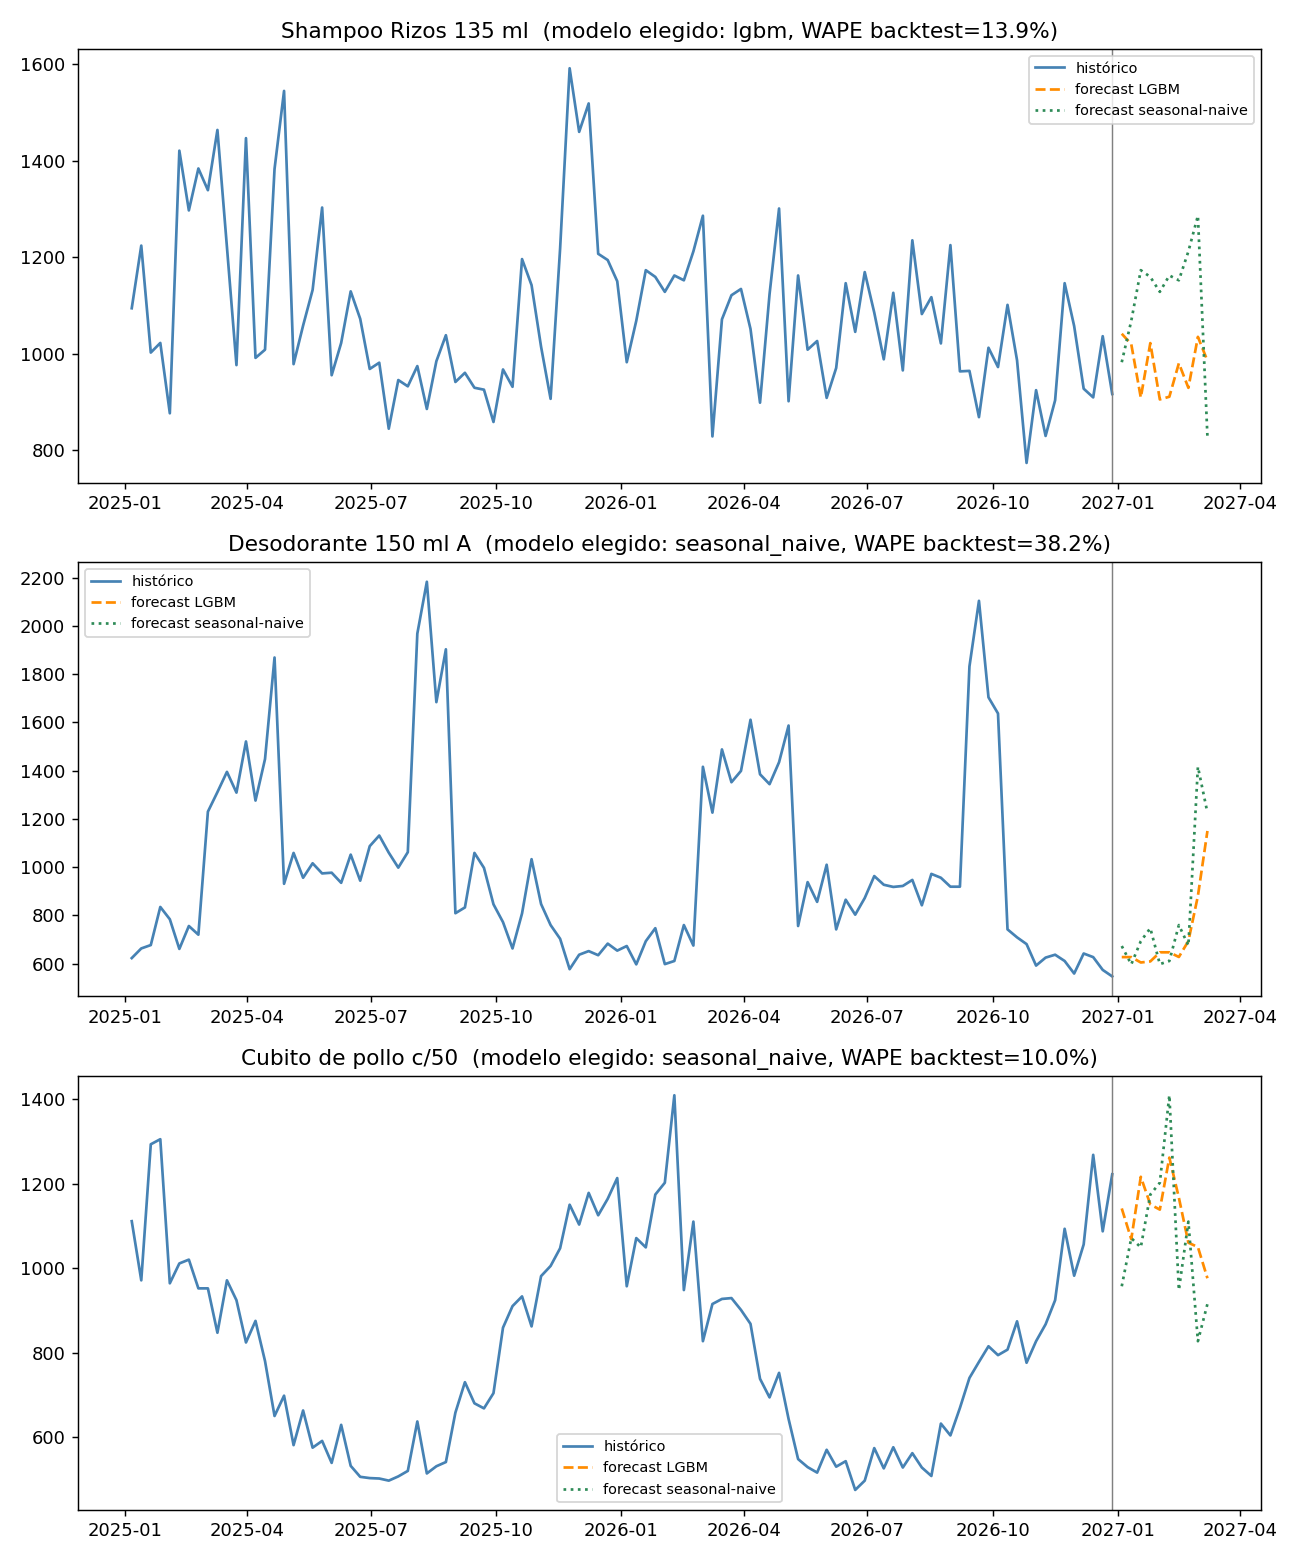
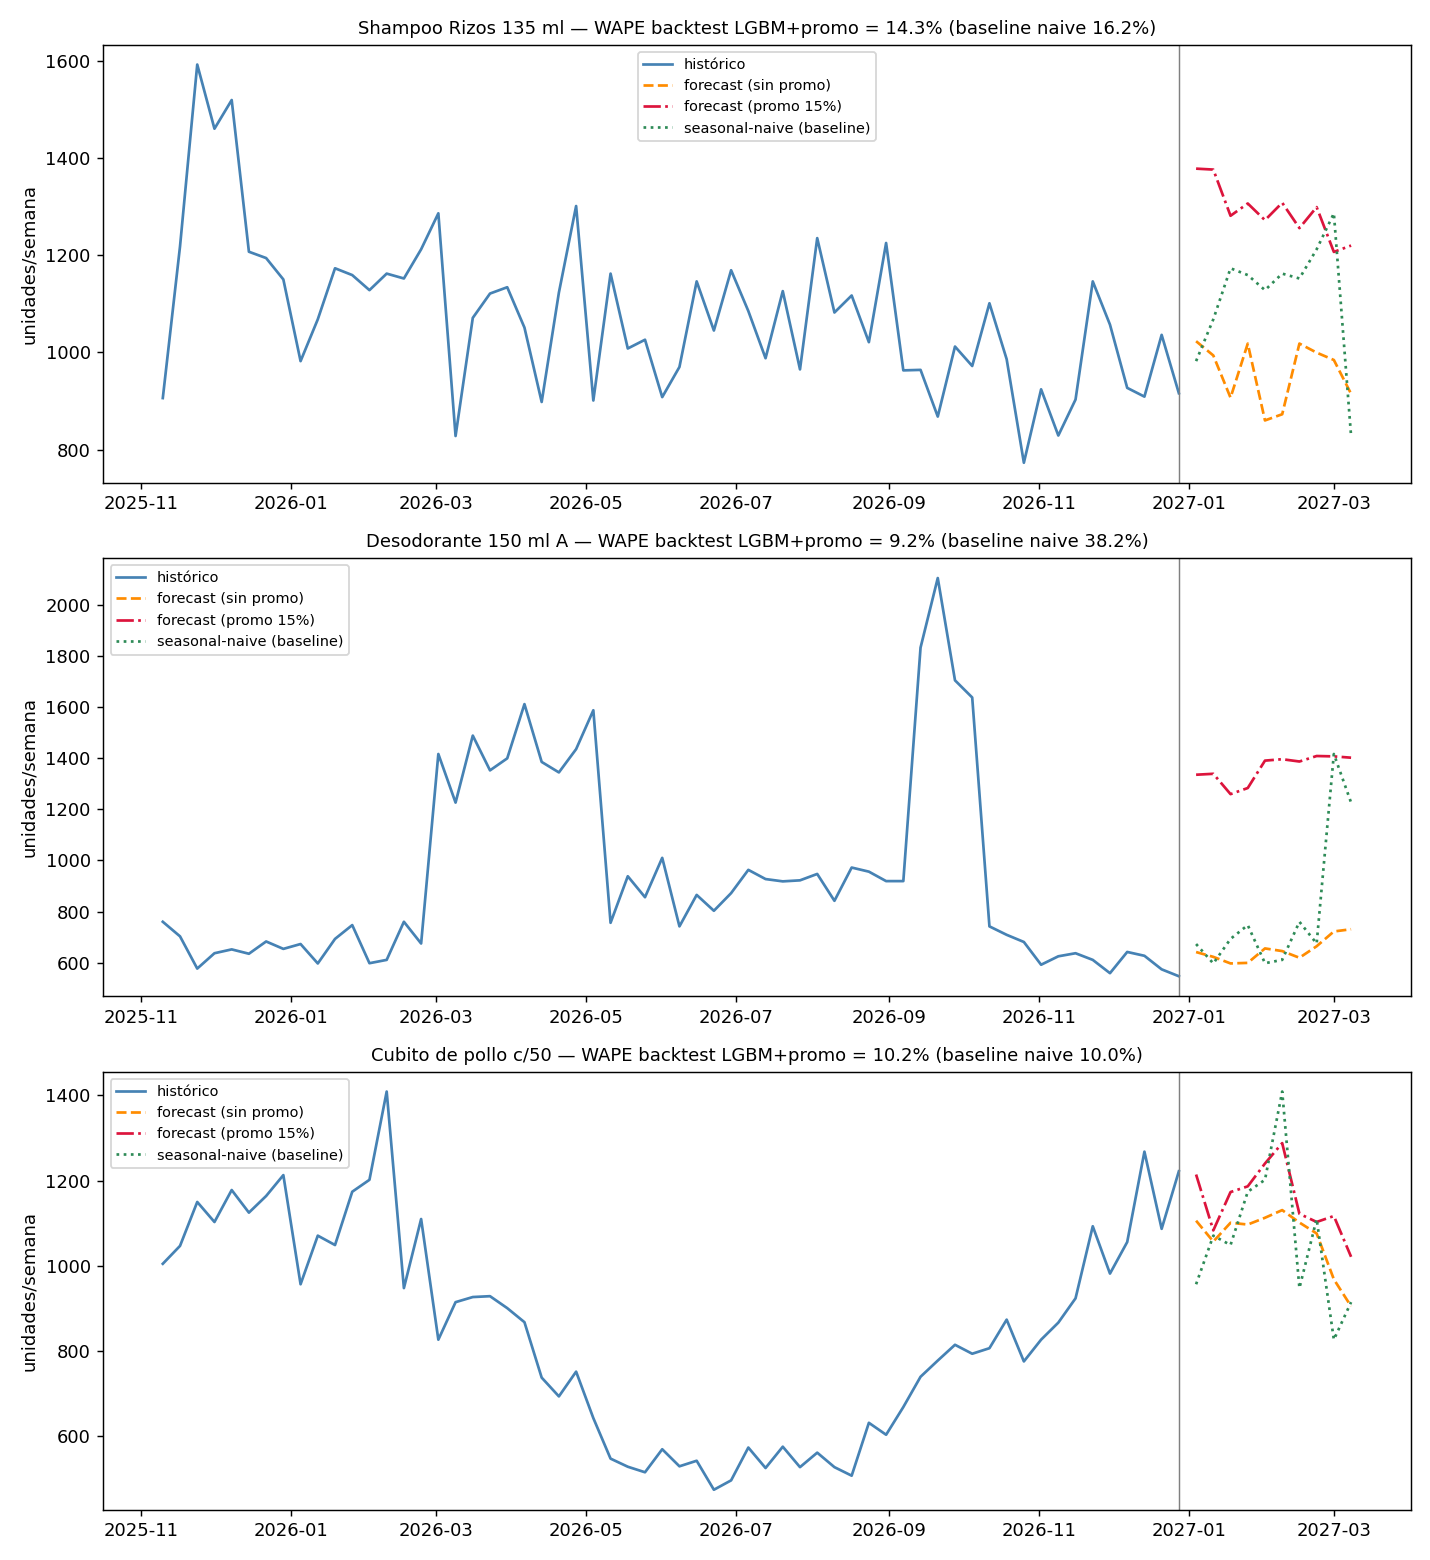
fix(reto-a): incorpora el calendario promocional como regresor conocido a futuro
El WAPE de Desodorante era 38-59%, inusable para reabasto. La causa: sus combos
duplican la demanda y el modelo no tenia forma de anticiparlos.

El calendario promocional no es fuga de informacion (el equipo comercial lo
decide con anticipacion). Al incorporarlo el WAPE cae a 9.2%, mejor en los 5
origenes del backtest sin excepcion.

Permite ademas unificar en un solo modelo para los 3 SKUs (11.2% promedio) en
vez de elegir el mejor por SKU (20.7%), y simular escenarios con y sin promo.

diff --git a/src/forecasting.py b/src/forecasting.py
@@ -1,10 +1,28 @@
-"""Reto A: Demand forecasting semanal con backtesting walk-forward (sin fuga de información)."""
+"""Reto A: Forecasting de demanda semanal con validación walk-forward (sin fuga de información).
+
+Tres modelos comparados:
+  1. seasonal_naive  -- baseline: la demanda de t = la de t-52
+  2. lgbm            -- calendario + lags + medias móviles
+  3. lgbm_promo      -- lo anterior + el calendario promocional como regresor conocido a futuro
+
+El calendario promocional NO es fuga de información: el equipo comercial define sus combos
+por adelantado, así que en producción esas columnas se conocen para el horizonte proyectado.
+"""
 import numpy as np
 import pandas as pd
 import lightgbm as lgb
 
 FORECAST_SKUS = ['Shampoo Rizos 135 ml', 'Desodorante 150 ml A', 'Cubito de pollo c/50']
 HORIZON = 10  # semanas
+
+BASE_FEATURES = ['t', 'woy_sin', 'woy_cos', 'month',
+                 'lag_1', 'lag_2', 'lag_4', 'lag_8', 'lag_52',
+                 'roll_mean_4', 'roll_mean_8']
+PROMO_FEATURES = ['on_promo', 'discount']
+
+
+def features_for(use_promo):
+    return BASE_FEATURES + (PROMO_FEATURES if use_promo else [])
 
 
 def build_features(g):
@@ -20,75 +38,78 @@ def build_features(g):
     g['roll_mean_8'] = g['qty'].shift(1).rolling(8).mean()
     return g
 
-FEATURES = ['t', 'woy_sin', 'woy_cos', 'month', 'lag_1', 'lag_2', 'lag_4', 'lag_8', 'lag_52',
-            'roll_mean_4', 'roll_mean_8']
 
-
-def fit_lgbm(train_feat):
-    train = train_feat.dropna(subset=['lag_1'])  # necesita al menos lag_1 valido
+def fit_lgbm(train, use_promo):
+    feat = build_features(train).dropna(subset=['lag_1'])
     model = lgb.LGBMRegressor(
         n_estimators=200, num_leaves=7, min_child_samples=5,
         learning_rate=0.05, subsample=0.8, colsample_bytree=0.8,
         random_state=42, verbosity=-1)
-    model.fit(train[FEATURES], train['qty'])
+    model.fit(feat[features_for(use_promo)], feat['qty'])
     return model
 
 
-def recursive_forecast_lgbm(model, history_qty_df, n_steps):
-    """history_qty_df: DataFrame con columnas week, qty (historia real, ordenada).
-    Genera n_steps semanas futuras de forma recursiva usando las propias predicciones como lags."""
-    hist = history_qty_df[['week', 'qty']].copy()
-    freq = pd.tseries.frequencies.to_offset('W-MON')
+def recursive_forecast(model, history, future_calendar, use_promo):
+    """Pronóstico recursivo: cada semana futura usa las predicciones ya generadas como lags.
+
+    history         -- DataFrame histórico con week, qty, on_promo, discount
+    future_calendar -- DataFrame con week, on_promo, discount de las semanas a proyectar
+                       (el plan promocional; ceros si se asume trimestre sin promoción)
+    """
+    cols = ['week', 'qty', 'on_promo', 'discount']
+    hist = history[cols].copy()
     preds = []
-    for h in range(n_steps):
-        next_week = hist['week'].iloc[-1] + pd.Timedelta(days=7)
-        tmp = pd.concat([hist, pd.DataFrame({'week': [next_week], 'qty': [np.nan]})], ignore_index=True)
-        feat = build_features(tmp.rename(columns={'qty': 'qty'}))
-        row = feat.iloc[[-1]][FEATURES]
-        yhat = max(0, model.predict(row)[0])
-        preds.append((next_week, yhat))
-        hist = pd.concat([hist, pd.DataFrame({'week': [next_week], 'qty': [yhat]})], ignore_index=True)
+    for _, fut in future_calendar.iterrows():
+        row = pd.DataFrame({'week': [fut['week']], 'qty': [np.nan],
+                            'on_promo': [fut['on_promo']], 'discount': [fut['discount']]})
+        tmp = pd.concat([hist, row], ignore_index=True)
+        x = build_features(tmp).iloc[[-1]][features_for(use_promo)]
+        yhat = max(0.0, float(model.predict(x)[0]))
+        preds.append((fut['week'], yhat))
+        row.loc[0, 'qty'] = yhat
+        hist = pd.concat([hist, row], ignore_index=True)
     return pd.DataFrame(preds, columns=['week', 'yhat'])
 
 
-def seasonal_naive_forecast(history_qty_df, n_steps):
-    hist = history_qty_df[['week', 'qty']].copy().sort_values('week').reset_index(drop=True)
+def seasonal_naive_forecast(history, n_steps):
+    hist = history[['week', 'qty']].sort_values('week').reset_index(drop=True)
     preds = []
     for h in range(1, n_steps + 1):
         next_week = hist['week'].iloc[-1] + pd.Timedelta(days=7) * h
-        ref_week = next_week - pd.Timedelta(weeks=52)
-        match = hist.loc[hist.week == ref_week, 'qty']
-        if len(match):
-            yhat = match.values[0]
-        else:
-            yhat = hist['qty'].tail(4).mean()
-        preds.append((next_week, yhat))
+        match = hist.loc[hist.week == next_week - pd.Timedelta(weeks=52), 'qty']
+        preds.append((next_week, match.values[0] if len(match) else hist['qty'].tail(4).mean()))
     return pd.DataFrame(preds, columns=['week', 'yhat'])
 
 
 def wape(actual, pred):
-    actual = np.asarray(actual, dtype=float)
-    pred = np.asarray(pred, dtype=float)
+    actual, pred = np.asarray(actual, float), np.asarray(pred, float)
     return np.abs(actual - pred).sum() / np.abs(actual).sum()
 
 
-def backtest(weekly_df, origins, horizon=HORIZON):
-    """origins: lista de índices (posición en la serie) donde 'corta' el histórico."""
+def backtest(weekly, origins, horizon=HORIZON):
+    """Walk-forward: en cada origen se entrena SOLO con datos anteriores y se proyecta `horizon`."""
     rows = []
     for origin in origins:
-        train = weekly_df.iloc[:origin].reset_index(drop=True)
-        test = weekly_df.iloc[origin:origin + horizon].reset_index(drop=True)
+        train = weekly.iloc[:origin].reset_index(drop=True)
+        test = weekly.iloc[origin:origin + horizon].reset_index(drop=True)
         if len(test) < horizon:
             continue
-        feat_train = build_features(train)
-        model = fit_lgbm(feat_train)
-        fc_lgbm = recursive_forecast_lgbm(model, train, horizon)
-        fc_naive = seasonal_naive_forecast(train, horizon)
+        cal = test[['week', 'on_promo', 'discount']]
+        cal_zero = cal.assign(on_promo=0, discount=0.0)
 
-        w_lgbm = wape(test['qty'], fc_lgbm['yhat'])
-        w_naive = wape(test['qty'], fc_naive['yhat'])
-        rows.append({'origin_week': train['week'].iloc[-1], 'wape_lgbm': w_lgbm, 'wape_naive': w_naive})
+        rows.append({
+            'origin_week': train['week'].iloc[-1],
+            'wape_naive': wape(test['qty'], seasonal_naive_forecast(train, horizon)['yhat']),
+            'wape_lgbm': wape(test['qty'],
+                              recursive_forecast(fit_lgbm(train, False), train, cal_zero, False)['yhat']),
+            'wape_lgbm_promo': wape(test['qty'],
+                                    recursive_forecast(fit_lgbm(train, True), train, cal, True)['yhat']),
+        })
     return pd.DataFrame(rows)
+
+
+def backtest_origins(n_weeks, horizon=HORIZON, n_origins=5, step=6):
+    return list(range(n_weeks - horizon - step * (n_origins - 1), n_weeks - horizon + 1, step))
 
 
 if __name__ == "__main__":
@@ -96,9 +117,9 @@ if __name__ == "__main__":
     df = clean(load_raw())
     for sku in FORECAST_SKUS:
         wk = weekly_demand(df, sku)
-        n = len(wk)
-        origins = list(range(n - HORIZON - 24, n - HORIZON + 1, 6))
-        bt = backtest(wk, origins)
-        print(f"\n=== {sku} (n_weeks={n}) ===")
-        print(bt)
-        print("promedio WAPE LGBM:", bt.wape_lgbm.mean().round(3), " | seasonal naive:", bt.wape_naive.mean().round(3))
+        bt = backtest(wk, backtest_origins(len(wk)))
+        print(f"\n=== {sku} (n={len(wk)} semanas) ===")
+        print(bt.round(3).to_string(index=False))
+        print("WAPE promedio -> " + "  |  ".join(
+            f"{c.replace('wape_', '')}: {bt[c].mean():.1%}" for c in
+            ['wape_naive', 'wape_lgbm', 'wape_lgbm_promo']))

diff --git a/src/forecasting_final.py b/src/forecasting_final.py
@@ -1,50 +1,71 @@
-"""Genera el forecast final (10 semanas) para cada SKU eligiendo el mejor modelo del backtest."""
-import numpy as np, pandas as pd
+"""Genera el forecast final a 10 semanas bajo dos escenarios promocionales."""
+import numpy as np
+import pandas as pd
 import matplotlib
 matplotlib.use('Agg')
 import matplotlib.pyplot as plt
-from data_prep import load_raw, clean, weekly_demand
-from forecasting import (FORECAST_SKUS, HORIZON, build_features, fit_lgbm,
-                          recursive_forecast_lgbm, seasonal_naive_forecast, backtest, wape)
 
-df = clean(load_raw())
+from data_prep import load_raw, clean, weekly_demand, data_path, report_path
+from forecasting import (FORECAST_SKUS, HORIZON, fit_lgbm, recursive_forecast,
+                         seasonal_naive_forecast, backtest, backtest_origins)
 
-summary_rows = []
-fig, axes = plt.subplots(len(FORECAST_SKUS), 1, figsize=(10, 12), sharex=False)
 
-for i, sku in enumerate(FORECAST_SKUS):
-    wk = weekly_demand(df, sku)
-    n = len(wk)
-    origins = list(range(n - HORIZON - 24, n - HORIZON + 1, 6))
-    bt = backtest(wk, origins)
-    wape_lgbm, wape_naive = bt.wape_lgbm.mean(), bt.wape_naive.mean()
-    chosen = 'lgbm' if wape_lgbm < wape_naive else 'seasonal_naive'
+def future_calendar(last_week, n_steps, on_promo=0, discount=0.0):
+    weeks = [last_week + pd.Timedelta(days=7) * (h + 1) for h in range(n_steps)]
+    return pd.DataFrame({'week': weeks, 'on_promo': on_promo, 'discount': discount})
 
-    feat_full = build_features(wk)
-    model = fit_lgbm(feat_full)
-    fc_lgbm = recursive_forecast_lgbm(model, wk, HORIZON)
-    fc_naive = seasonal_naive_forecast(wk, HORIZON)
-    fc_final = fc_lgbm if chosen == 'lgbm' else fc_naive
 
-    summary_rows.append({
-        'sku': sku, 'wape_backtest_lgbm': round(wape_lgbm, 3), 'wape_backtest_naive': round(wape_naive, 3),
-        'modelo_elegido': chosen, 'demanda_prom_semanal_hist': round(wk.qty.tail(12).mean(), 1),
-        'demanda_prom_semanal_forecast': round(fc_final.yhat.mean(), 1)
-    })
+def run():
+    df = clean(load_raw())
+    rows, forecasts = [], {}
+    fig, axes = plt.subplots(len(FORECAST_SKUS), 1, figsize=(11, 12))
 
-    fc_final.to_csv(f"data/forecast_{sku.replace(' ', '_').replace('/','-')}.csv", index=False)
+    for i, sku in enumerate(FORECAST_SKUS):
+        wk = weekly_demand(df, sku)
+        bt = backtest(wk, backtest_origins(len(wk)))
 
-    ax = axes[i]
-    ax.plot(wk.week, wk.qty, label='histórico', color='steelblue')
-    ax.plot(fc_lgbm.week, fc_lgbm.yhat, '--', label='forecast LGBM', color='darkorange')
-    ax.plot(fc_naive.week, fc_naive.yhat, ':', label='forecast seasonal-naive', color='seagreen')
-    ax.axvline(wk.week.iloc[-1], color='gray', lw=0.8)
-    ax.set_title(f"{sku}  (modelo elegido: {chosen}, WAPE backtest={min(wape_lgbm,wape_naive):.1%})")
-    ax.legend(fontsize=8)
+        # Modelo unificado para los 3 SKUs: LightGBM + calendario promocional.
+        model = fit_lgbm(wk, use_promo=True)
+        cal_base = future_calendar(wk.week.iloc[-1], HORIZON)                       # sin promo
+        cal_promo = future_calendar(wk.week.iloc[-1], HORIZON, 1, 0.15)             # promo 15% todo el horizonte
 
-plt.tight_layout()
-plt.savefig("report/reto_a_forecasts.png", dpi=130)
+        fc_base = recursive_forecast(model, wk, cal_base, True)
+        fc_promo = recursive_forecast(model, wk, cal_promo, True)
+        fc_naive = seasonal_naive_forecast(wk, HORIZON)
 
-summary = pd.DataFrame(summary_rows)
-summary.to_csv("data/reto_a_summary.csv", index=False)
-print(summary.to_string(index=False))
+        forecasts[sku] = fc_base
+        fc_base.to_csv(data_path(f"forecast_{sku.replace(' ', '_').replace('/', '-')}.csv"), index=False)
+
+        rows.append({
+            'sku': sku,
+            'wape_naive': round(bt.wape_naive.mean(), 3),
+            'wape_lgbm': round(bt.wape_lgbm.mean(), 3),
+            'wape_lgbm_promo': round(bt.wape_lgbm_promo.mean(), 3),
+            'demanda_sem_hist_12s': round(wk.qty.tail(12).mean(), 1),
+            'forecast_sem_sin_promo': round(fc_base.yhat.mean(), 1),
+            'forecast_sem_con_promo_15pct': round(fc_promo.yhat.mean(), 1),
+        })
+
+        ax = axes[i]
+        ax.plot(wk.week.tail(60), wk.qty.tail(60), label='histórico', color='steelblue')
+        ax.plot(fc_base.week, fc_base.yhat, '--', color='darkorange', label='forecast (sin promo)')
+        ax.plot(fc_promo.week, fc_promo.yhat, '-.', color='crimson', label='forecast (promo 15%)')
+        ax.plot(fc_naive.week, fc_naive.yhat, ':', color='seagreen', label='seasonal-naive (baseline)')
+        ax.axvline(wk.week.iloc[-1], color='gray', lw=0.8)
+        ax.set_title(f"{sku} — WAPE backtest LGBM+promo = {bt.wape_lgbm_promo.mean():.1%} "
+                     f"(baseline naive {bt.wape_naive.mean():.1%})", fontsize=10)
+        ax.set_ylabel('unidades/semana')
+        ax.legend(fontsize=8)
+
+    plt.tight_layout()
+    plt.savefig(report_path("reto_a_forecasts.png"), dpi=130)
+
+    summary = pd.DataFrame(rows)
+    summary.to_csv(data_path("reto_a_summary.csv"), index=False)
+    return summary
+
+
+if __name__ == "__main__":
+    s = run()
+    pd.set_option('display.width', 200)
+    print(s.to_string(index=False))
